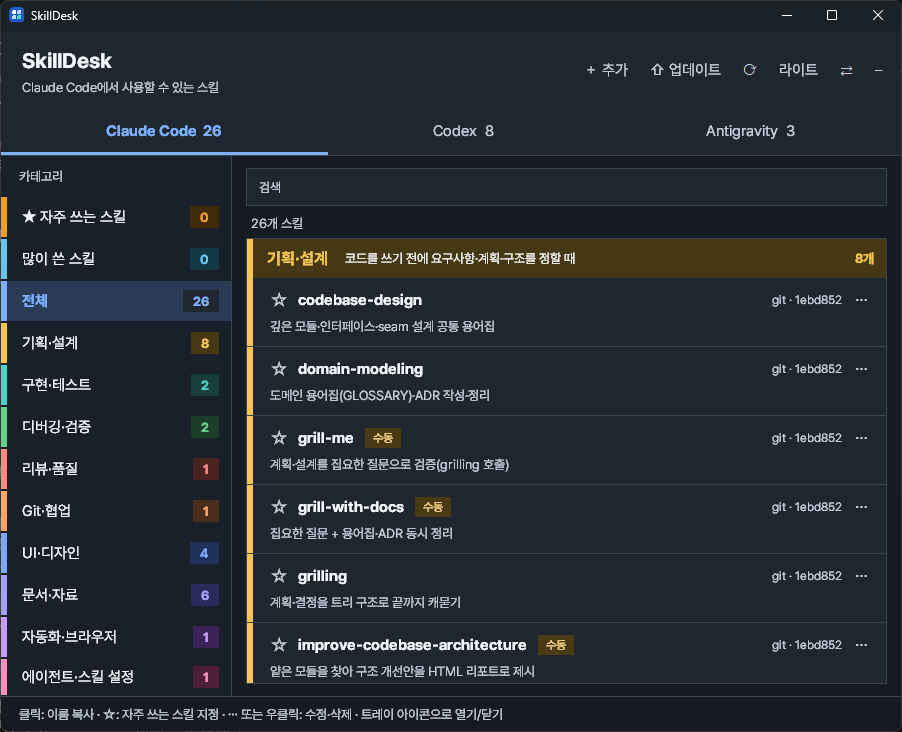
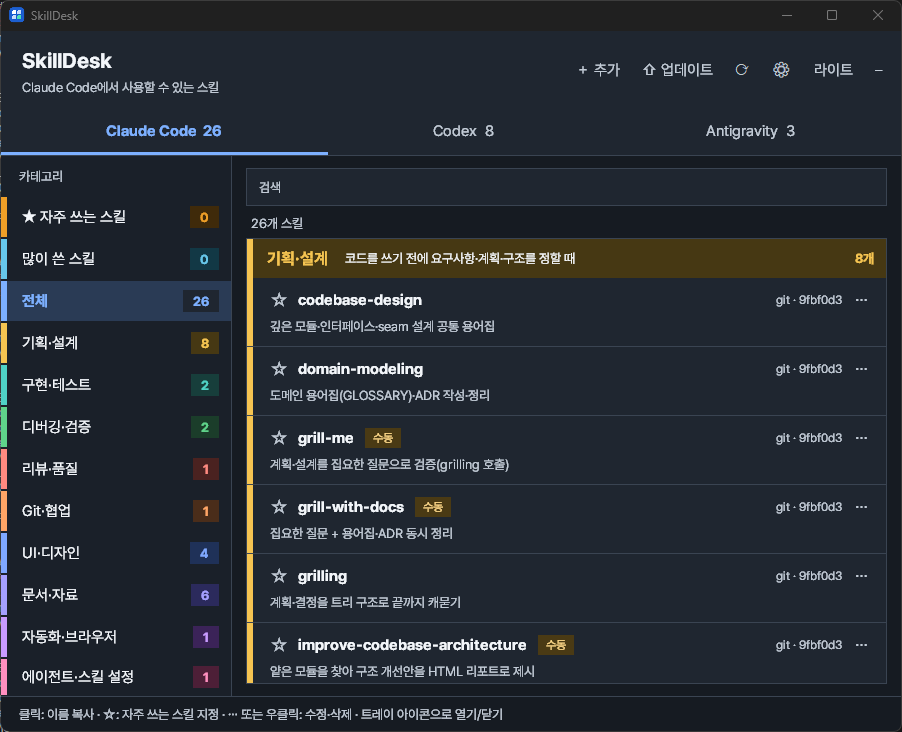
Docs: 스크린샷 갱신과 SKILL.md 보기·수정 양식·설정 창 이미지 추가
- 헤더 버튼(⚙ 추가, ⇄ 제거)과 가운데 배치가 반영되도록 모든 화면 이미지를 다시 생성
- SKILL.md 보기, 수정 양식, 설정 창 이미지를 스크립트에 추가하고 README에 연결
- 이미지는 공개 데모 스킬로만 생성 (내 PC의 스킬·경로 없음)

diff --git a/docs/make_screenshots.py b/docs/make_screenshots.py
@@ -97,6 +97,14 @@ def demo_world(t: Path) -> Path:
     ]
     (log / "demo.jsonl").write_text("".join(line + "\n" for line in lines), encoding="utf-8")
     mgr.create("meeting-notes", "Summarize meeting notes into a short report", ["Claude Code", "Codex"])
+    mgr.save_skill_md(
+        mgr.STORE / "skills/meeting-notes",
+        "Summarize meeting notes into a short report",
+        False,
+        "# meeting-notes\n\n회의 메모를 받으면 **한 쪽짜리 보고서**로 정리합니다.\n\n## 순서\n\n"
+        "- 참석자와 날짜를 먼저 적는다\n- 결정 사항과 할 일을 나눠 `표`로 정리한다\n- 끝에 다음 회의 안건을 붙인다\n\n"
+        "## 출력 형식\n\n```\n결정: ...\n할 일: 담당자 / 기한\n```\n",
+    )
     mgr.set_note("meeting-notes", "회의록을 요약 보고서로 정리 (직접 만든 스킬 예시)")
     return repo
 
@@ -174,6 +182,14 @@ def main() -> None:
             app.detail(grilling)
             shot(app.detail_win.win, "detail")
             app.detail_win.close()
+            mine = next(x for x in app.data["Claude Code"] if x["name"] == "meeting-notes")  # hand-made: the only editable kind
+            app.detail(mine, page="SKILL.md")
+            shot(app.detail_win.win, "skill-md-view")
+            app.detail_win.close()
+            app.detail(mine, page="SKILL.md", edit=True)
+            shot(app.detail_win.win, "skill-md-edit")
+            app.detail_win.editing = False  # nothing was changed; close without asking
+            app.detail_win.close()
             app.row_menu(grilling, app.root.winfo_rootx() + app.px(600), app.root.winfo_rooty() + app.px(330))
             app.popup.win.unbind("<FocusOut>")  # keep it open while the picture is taken
             shot(app.popup.win, "menu")
@@ -181,6 +197,10 @@ def main() -> None:
 
             app.set_agent("Codex")
             shot(app.root, "codex")
+
+            app.settings_dialog()
+            shot(app.dialog.win, "settings")
+            app.dialog.close()
 
             app.set_agent("Claude Code")
             app.pick(v.USAGE)
